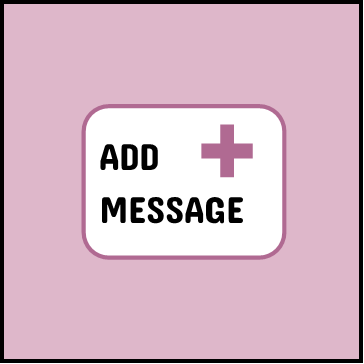
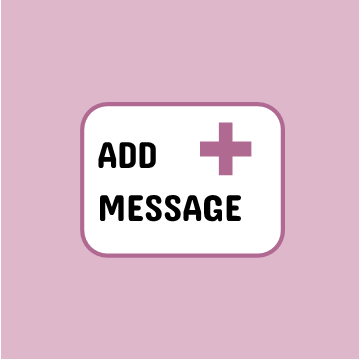
Changed navbar and images

diff --git a/ConnectBasket/modules/Home.html b/ConnectBasket/modules/Home.html
@@ -7,26 +7,31 @@
   </head>
   <body>
 	-->
-  <div class="row">
-		<div class="col-xs-2">
-		</div>
-		<div class="col-xs-2">
-			<a href="#"><img src="images/addmessageicon.png" class="img-circle person" alt="Add Message" width="100%"></a>
-			<p class="image-caption">Edit Profile<p>
-		</div>
-		<div class="col-xs-1">
-		</div>
-		<div class="col-xs-2">
-			<a href="#"><img src="images/viewmessagesicon.png" class="img-circle person" alt="View Messages" width="100%"></a>
-		</div>
-		<div class="col-xs-1">
-		</div>
-		<div class="col-xs-2">
-			<a href="#"><img src="images/editprofileicon.png" class="img-circle person" alt="Edit Profile" width="100%"></a>
-		</div>
-		<div class="col-xs-2">
-		</div>
-  </div>
+	
+
+<div class="row">
+	<h3 class="center margin"> Welcome to ConnectBasket! </h3>
+</div>	
+	
+<div class="row">
+	<div class="col-xs-2">
+	</div>
+	<div class="col-xs-2">
+		<a href="#"><img src="images/addmessageicon.png" class="img-circle person" alt="Add Message" width="100%"></a>
+	</div>
+	<div class="col-xs-1">
+	</div>
+	<div class="col-xs-2">
+		<a href="#"><img src="images/viewmessagesicon.png" class="img-circle person" alt="View Messages" width="100%"></a>
+	</div>
+	<div class="col-xs-1">
+	</div>
+	<div class="col-xs-2">
+		<a href="#"><img src="images/editprofileicon.png" class="img-circle person" alt="Edit Profile" width="100%"></a>
+	</div>
+	<div class="col-xs-2">
+	</div>
+</div>
 	
  <!-- </body>
 </html> -->

diff --git a/ConnectBasket/templates/header.html b/ConnectBasket/templates/header.html
@@ -14,10 +14,20 @@
         <!-- Collect the nav links, forms, and other content for toggling -->
         <div class="collapse navbar-collapse navbar-ex1-collapse">
             <ul class="nav navbar-nav navbar-right">
-                <li><a ui-sref="login">Login</a>
+                <li><a ui-sref="login"><span class="glyphicon glyphicon-check"></span> LOGIN</a>
                 </li>
+				<li class="dropdown">
+                    <a class="dropdown-toggle" data-toggle="dropdown"><span class="glyphicon glyphicon-comment"></span> MESSAGES <b class="caret"></b></a>
+                    <ul class="dropdown-menu">
+                        <li><a ui-sref="addnewmessage">Add New Message</a>
+						</li>
+                        <li><a ui-sref="viewmessages">View Messages</a>
+						</li>
+                    </ul>
+                </li>
+				<li><a ui-sref="editprofile"> <span class="glyphicon glyphicon-pencil"></span> EDIT PROFILE</a>
                 <li class="dropdown">
-                    <a class="dropdown-toggle" data-toggle="dropdown">Create <b class="caret"></b></a>
+                    <a class="dropdown-toggle" data-toggle="dropdown"> <span class="glyphicon glyphicon-user"></span> ADMIN <b class="caret"></b></a>
                     <ul class="dropdown-menu">
                         <li><a ui-sref="creatuser">Create User</a>
 						</li>

diff --git a/ConnectBasket/index.html b/ConnectBasket/index.html
@@ -21,6 +21,9 @@
     <link rel="stylesheet" href="//maxcdn.bootstrapcdn.com/bootstrap/3.2.0/css/bootstrap-theme.min.css">
     <link href="http://maxcdn.bootstrapcdn.com/font-awesome/4.1.0/css/font-awesome.min.css" rel="stylesheet">
 
+	<!--Google Font-->
+	<link href="https://fonts.googleapis.com/css?family=Concert+One" rel="stylesheet">
+	
     <!-- Our Website CSS Styles -->
     <link rel="stylesheet" href="style/ConnectBasket.css">
 
@@ -34,6 +37,7 @@
 <!-- Our Website Content Goes Here -->
 <div ng-include='"templates/header.html"'></div>
 <h2 class="center">{{title}}</h2>
+<br/>
 <div ui-view></div>
 <div ng-include='"templates/footer.html"'></div>
 

diff --git a/ConnectBasket/style/ConnectBasket.css b/ConnectBasket/style/ConnectBasket.css
@@ -3,11 +3,25 @@ Beaver Orange: #DC4405
 Paddletail Black: #000000
 Bucktooth White: #FFFFFF
 */
+body {
+	font-family: 'Concert One', cursive;
+}
 
 .main-navigation
 {
 	background-color: #DC4405;
 }
+
+.nav.navbar-nav.navbar-right li a {
+	color: white;
+	font-size: 1.4em;
+}
+
+.nav.navbar-nav.navbar-right .dropdown-menu>li>a{
+	color: black;
+	font-size: 1.4em;
+}
+
 
 .site-margins
 {
@@ -32,6 +46,11 @@ Bucktooth White: #FFFFFF
 	text-align: center;
 	margin: auto;
 }
+
+.margin {
+	margin: 20px;
+}
+
 
 .orangeBox
 {
